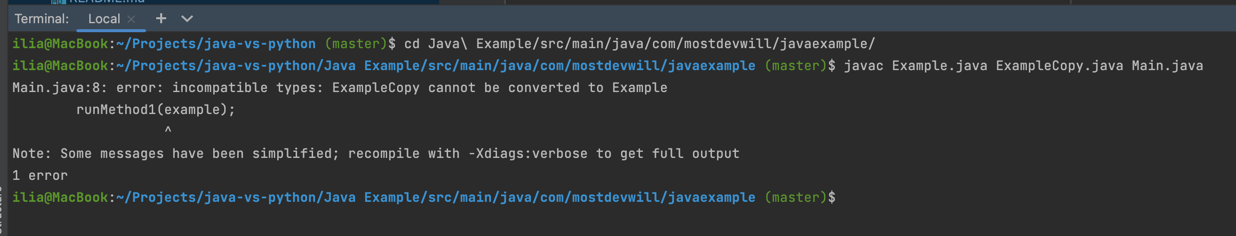
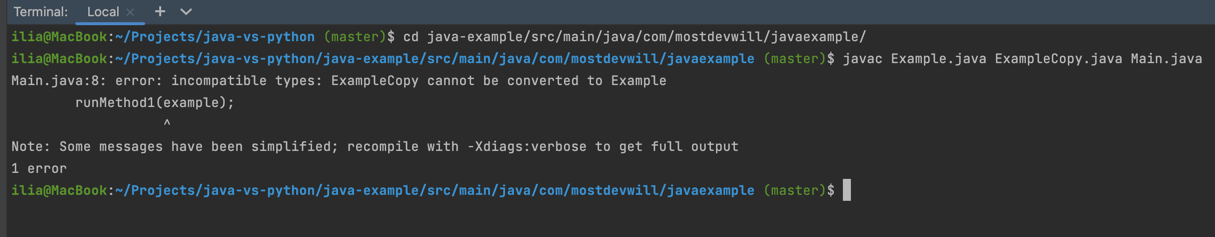
Add the shortcut section

Changed region(s): [[0.0, 0.0, 1.0, 0.5042], [0.0, 0.5932, 0.7004, 0.8602]]

diff --git a/README.md b/README.md
@@ -229,10 +229,11 @@ Open the terminal. I use the one which is integrated to the IDE. You can find it
 
 And type this command:
 
-cd Java\ Example/src/main/java/com/mostdevwill/javaexample/
-
+```shell
+cd java-example/src/main/java/com/mostdevwill/javaexample/
 javac Example.java ExampleCopy.java Main.java
 
+```
 And now read the error:
 
 ![img.png](pictures/java-error.png)
